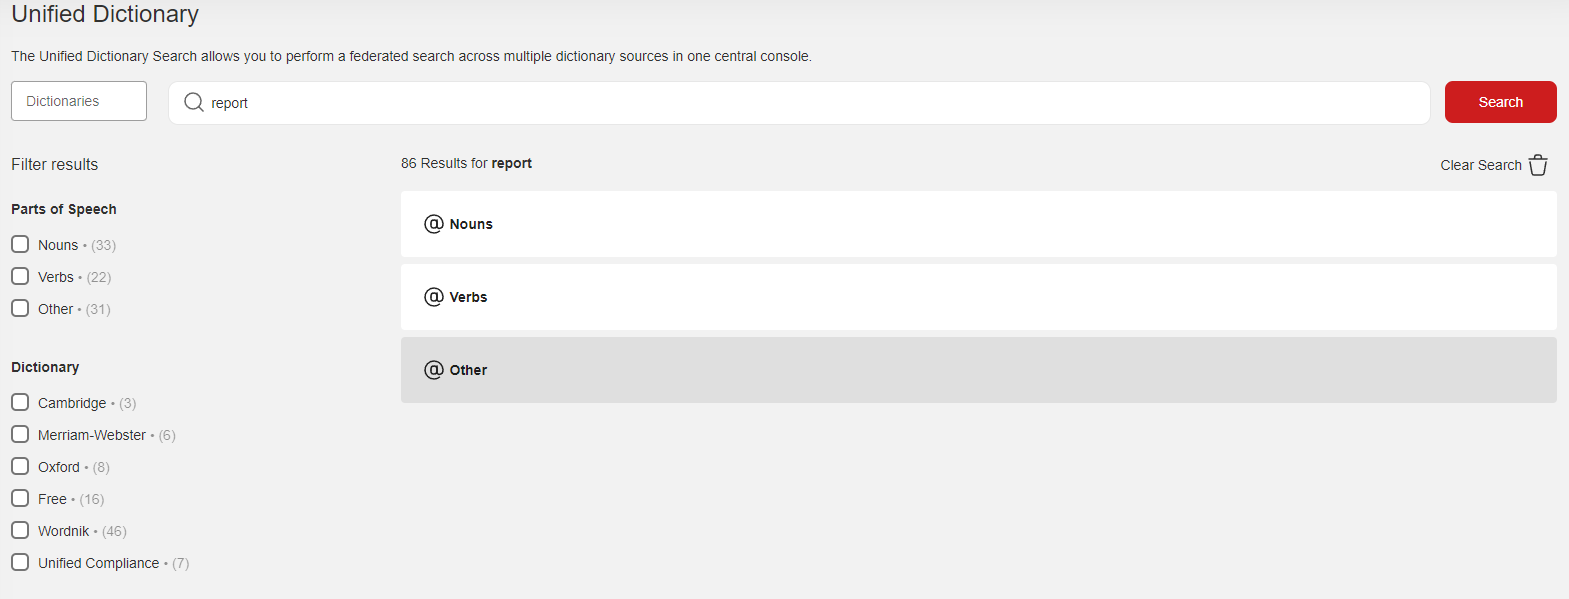
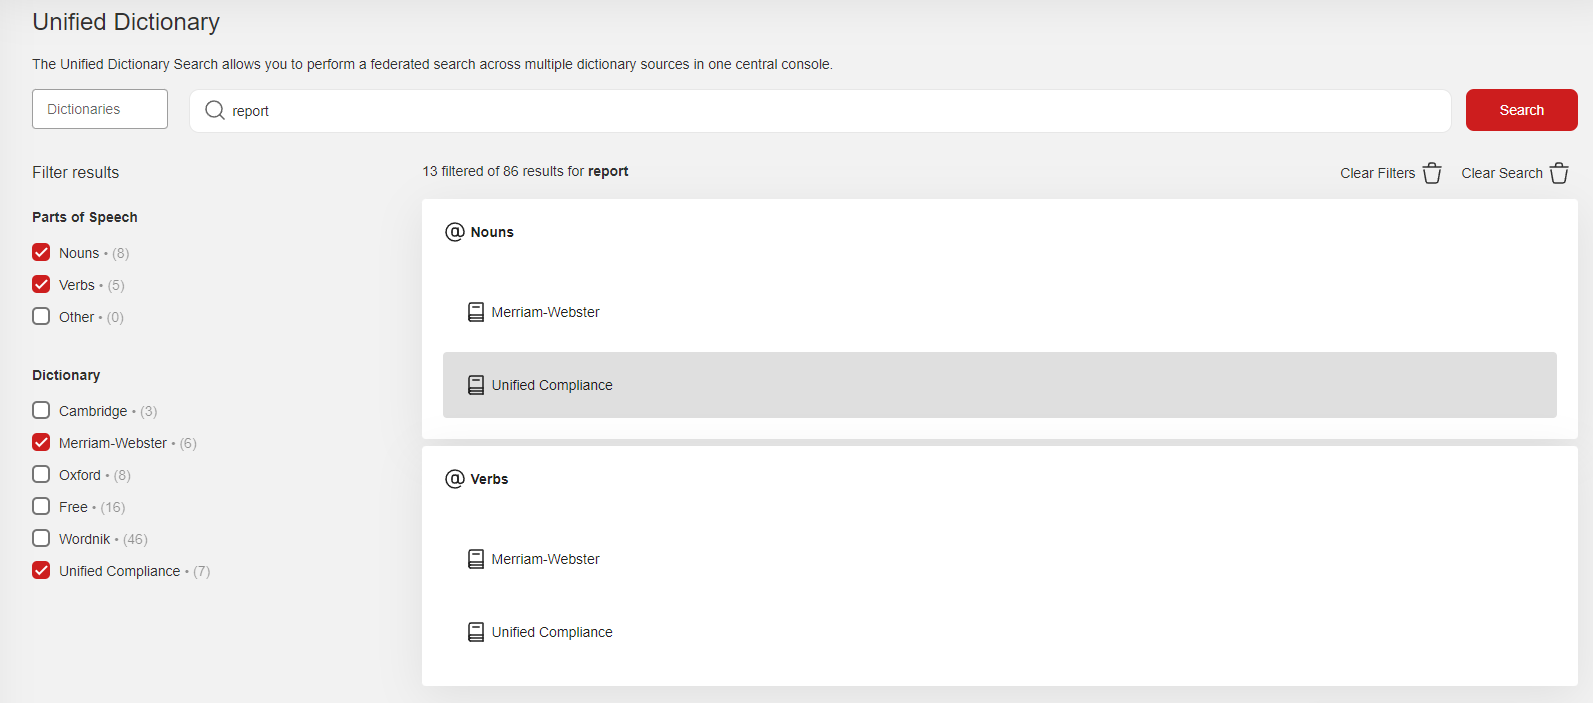
GITBOOK-42: change request with no subject merged in GitBook

diff --git a/unified-compliance-4.0/dictionary.md b/unified-compliance-4.0/dictionary.md
@@ -6,21 +6,21 @@ Enter a term and press _Search_ and the system will query all 6 dictionaries (un
 
 By default (unless a pre-filter on Dictionary provider was set), the system will return the results found for all Dictionary providers and applicable parts of speech:
 
-![](<../.gitbook/assets/image (8).png>)
+![](<../.gitbook/assets/image (4).png>)
 
 None of the checkboxes are checked meaning the results apply to all of them.  Filter the results by checking one or more of the checkboxes.  For example, selecting Nouns and Verbs as the parts of speech, and, Unified Compliance and Merriam-Webster as the dictionaries will result in:
 
-![](<../.gitbook/assets/image (3).png>)
+![](<../.gitbook/assets/image (8).png>)
 
 To see the results for a particular part-of-speech and dictionary, select the drop-down accordion of the part-of-speech first followed by the drop-down accordion of the dictionary:
 
-![](<../.gitbook/assets/image (6).png>)
+![](<../.gitbook/assets/image (5).png>)
 
 Here you will see the possible definitions for the selected part-of-speech.
 
 To clear all selections / filters, choose the _Clear Filters_ option here:
 
-![](<../.gitbook/assets/image (4).png>)
+![](<../.gitbook/assets/image (1).png>)
 
 To perform a new search for another term, choose _Clear Search_ (or simply enter a new term and press _Search_):
 
@@ -30,10 +30,10 @@ Further, you can create Glossaries and add terms you search for to an applicable
 
 Once one or more glossaries are created, you can add Terms to them directly from the search screen as seen here:
 
-![](<../.gitbook/assets/image (5).png>)
+![](<../.gitbook/assets/image (7).png>)
 
 Simply select the _Add_ button next to the Term & Definition pair that you would like to add to a Glossary.  The term, part-of-speech, and definition will be pre-populated - simply select the Glossary to add to from the drop down list and then select _Add:_
 
-![](<../.gitbook/assets/image (1).png>)
+![](<../.gitbook/assets/image (2).png>)
 
 There is no limit to the number of terms/definitions that can be added to a Glossary.

diff --git a/unified-compliance-4.0/plantuml.md b/unified-compliance-4.0/plantuml.md
@@ -6,7 +6,7 @@ To create a PlantUML diagram, select _Create Diagram_ and then specify a Name, T
 
 To return to the list of diagrams page, select the PlantUML breadcrumb entry here:
 
-![](<../.gitbook/assets/image (2).png>)
+![](<../.gitbook/assets/image (9).png>)
 
 From the listing page, you can search for diagrams using the main search bar and you can filter diagrams displayed by Visibility (Private or Community or All), Creator (who on your team created the diagram), and/or by Status.  You can also sort the results by any of the columns displayed, ie. Diagram Name, Diagram Type, Creator, Modifier, Modified Date, Status or Visibility.  Simply click on the column name to sort in ascending order or click it again to sort in descending order.
 
@@ -24,6 +24,6 @@ On the far right of a row in the listing page is the _Action_ menu.  Here you ca
 
 Access the _Action_ menu here:
 
-![](<../.gitbook/assets/image (9).png>)
+![](<../.gitbook/assets/image (6).png>)
 
 Enjoy making PlantUML diagrams!

diff --git a/unified-compliance-4.0/api-gateway.md b/unified-compliance-4.0/api-gateway.md
@@ -1,12 +1,12 @@
 # API Gateway
 
-The Unified Compliance 4.0 application is also an API Gateway, ie. a software platform where your organization can interact with the Unified Compliance library of data. API developers can make API calls to the gateway to retrieve data.
+The Unified Compliance 4.0 application is also an API Gateway, ie. a software platform where your organization can interact with the Unified Compliance library of data. API developers can make API calls to the gateway to retrieve and publish data.
 
 The gateway supports RESTful APIs that:
 
 * Are HTTP-based
 * Enable stateless client-server communication
-* Implement standard HTTP methods such as GET
+* Implement standard HTTP methods such as GET, POST, and PATCH
 * Utilize an API Key for authentication
 
 The onboarding flow of the Unified Compliance 4.0 application will guide you through the process of registering, which includes:
